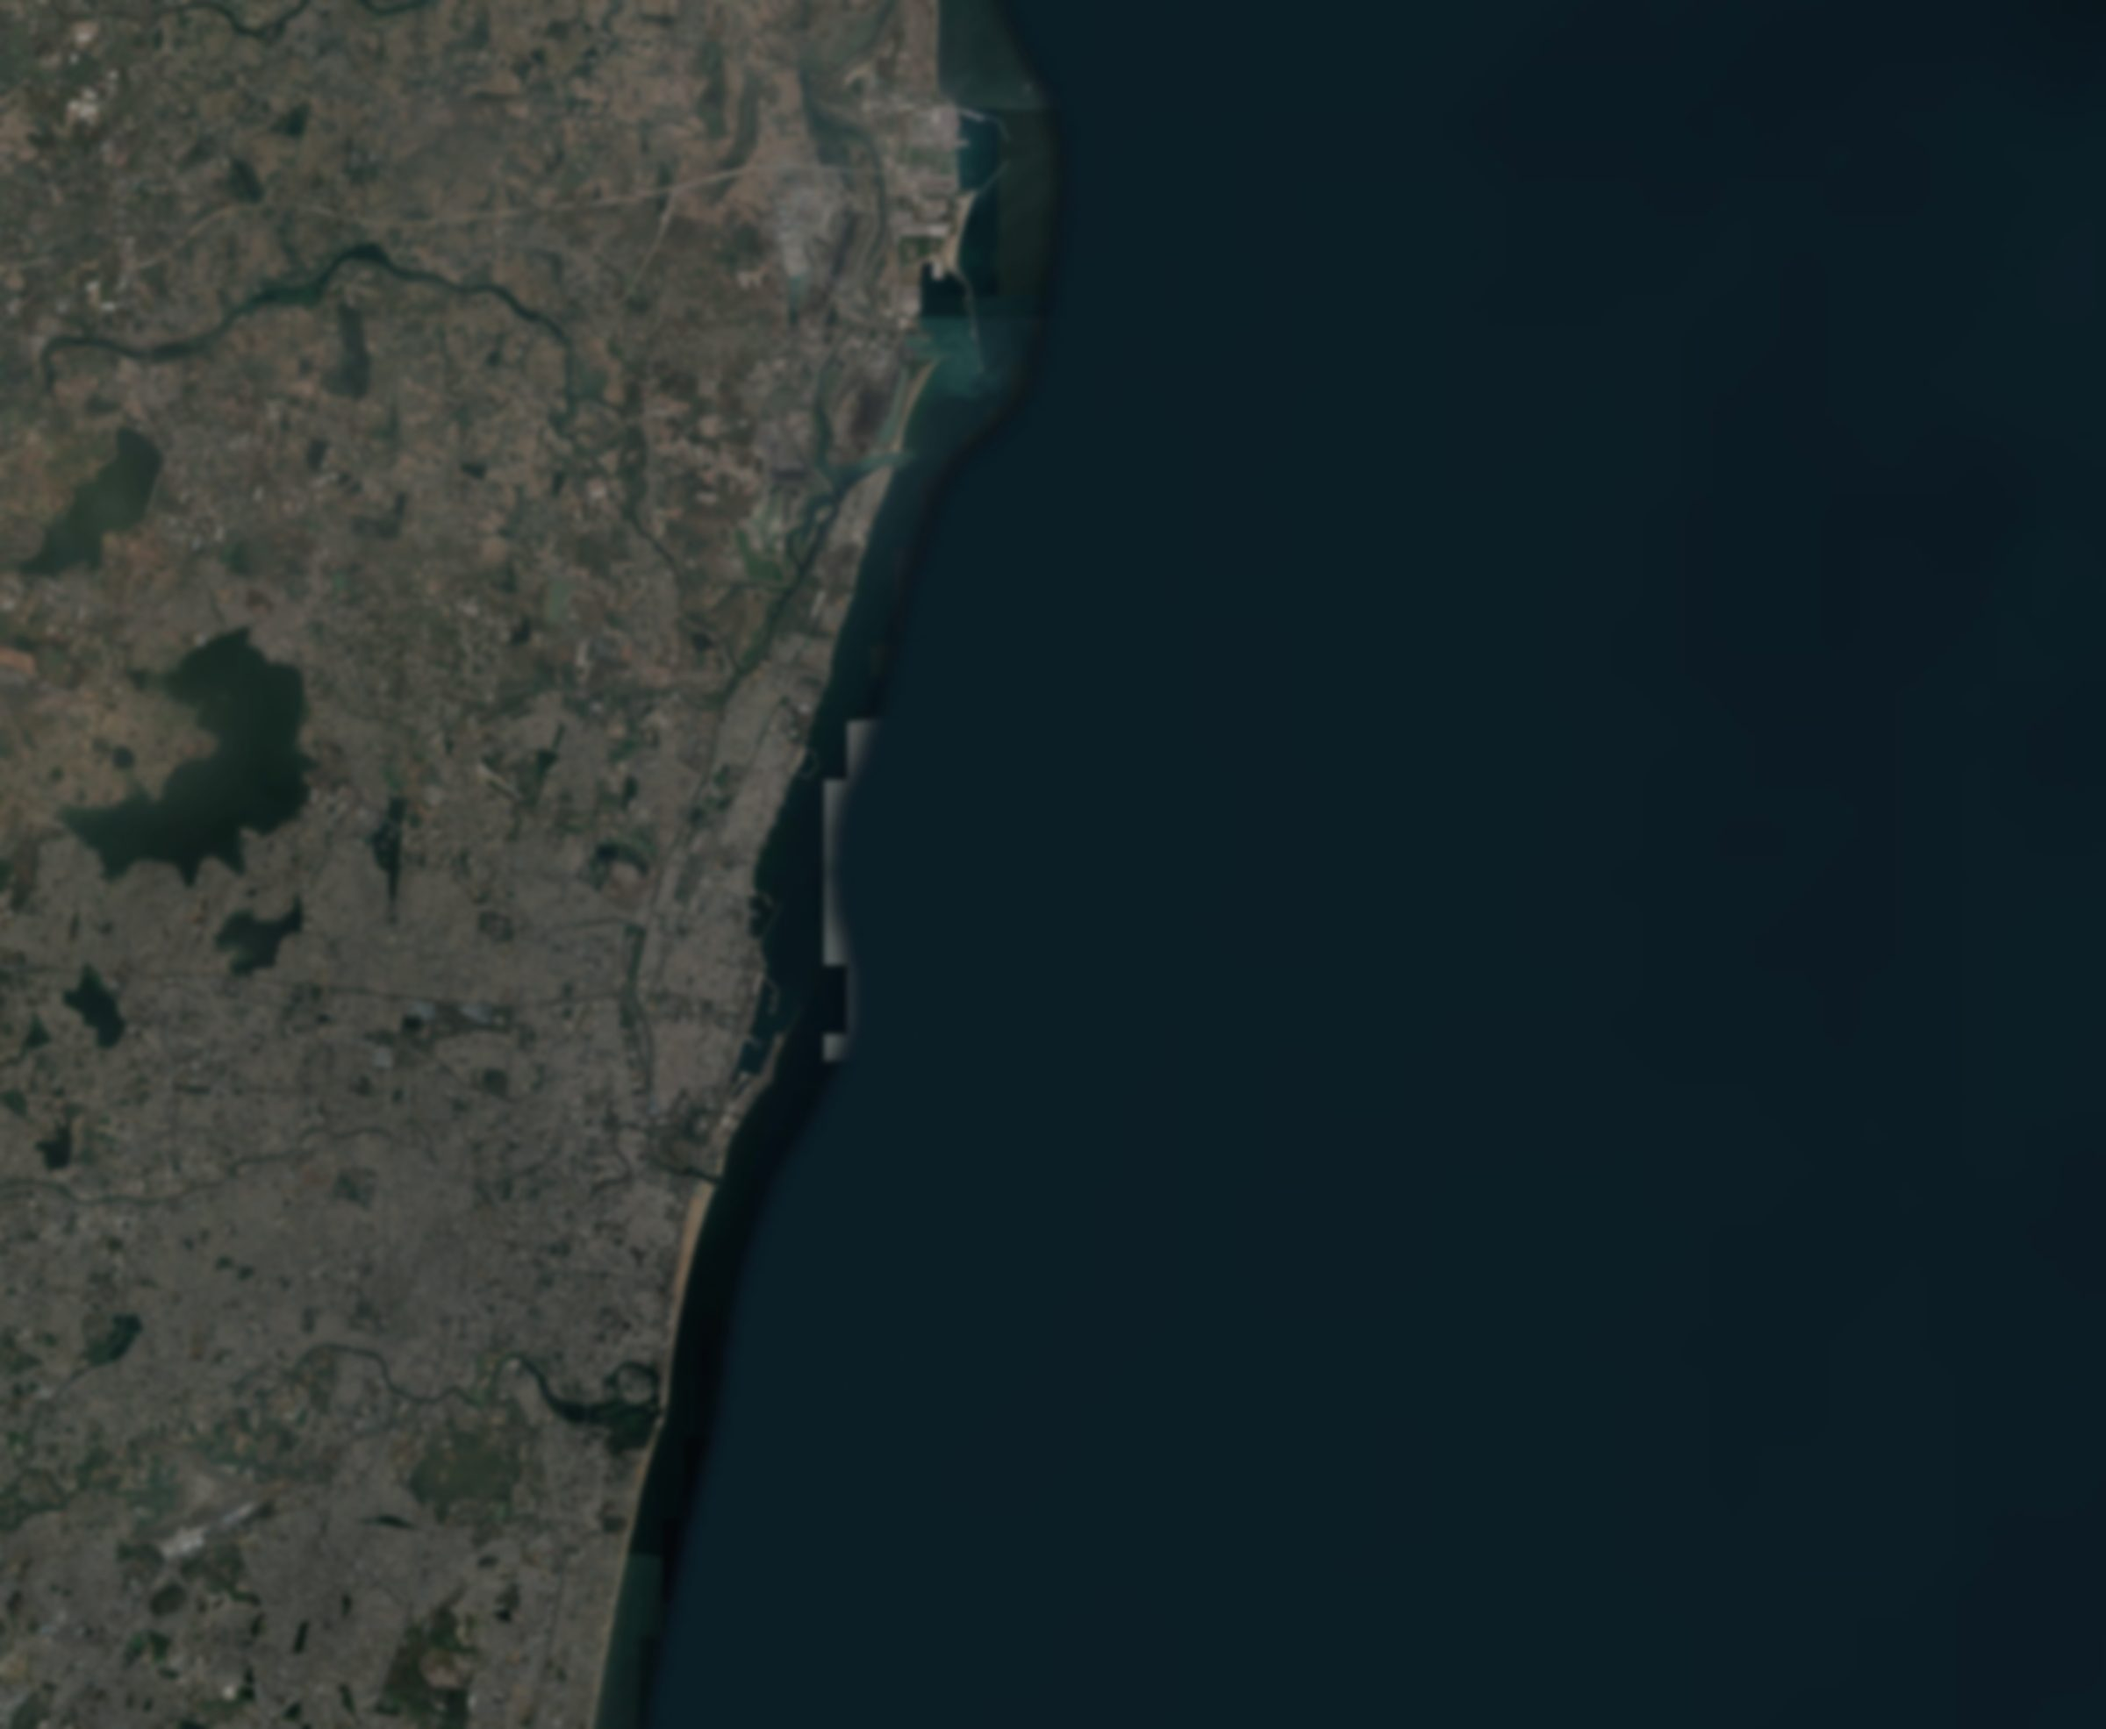
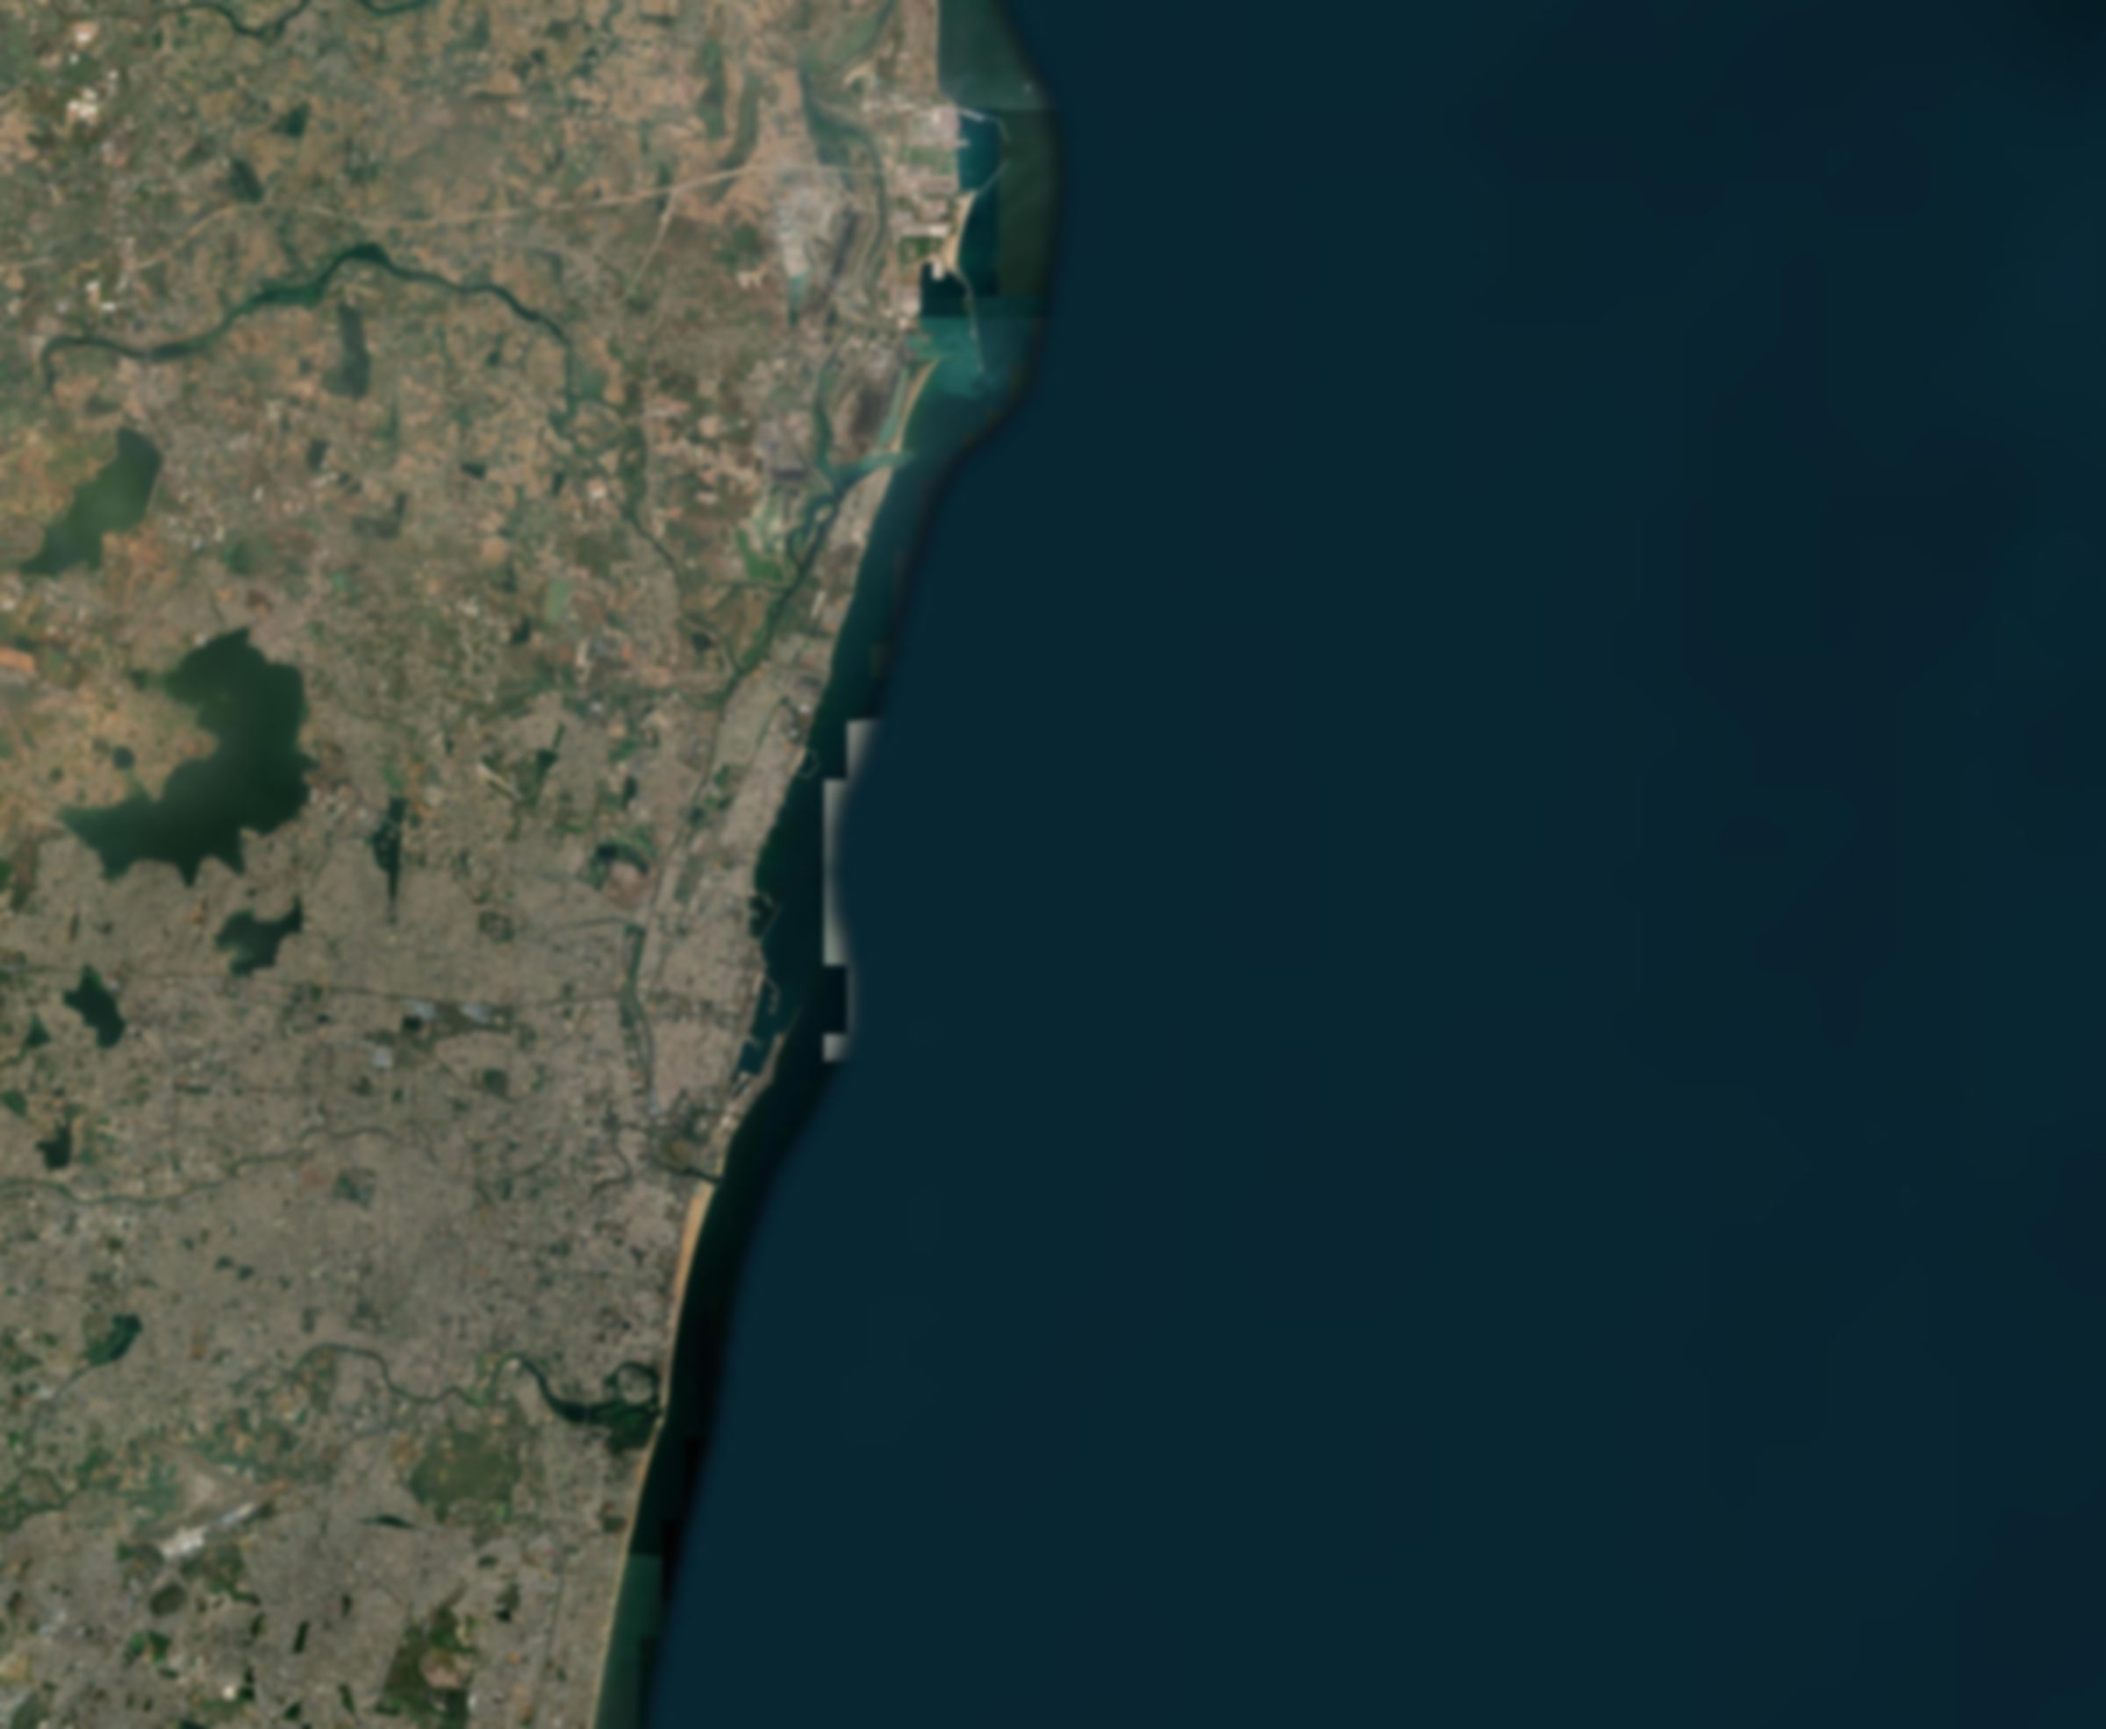
Make the login backdrop a genuine drop-in
Move the darken and desaturate out of the baked JPEG and into a CSS filter on the
backdrop image, so replacing web/public/media/login.jpg with any photo gets the
same grade and keeps the sign-in panel readable. The bundled Chennai still is now
blurred only, which is the part specific to it: it hides Esri's mosaic joins.

Also moves the imagery credit to the page corner, where it was previously landing
at the inner edge of the left grid column.

diff --git a/web/src/pages/Login.tsx b/web/src/pages/Login.tsx
@@ -42,11 +42,13 @@ export default function Login() {
           boundary leaves a hard vertical seam down the middle of the sea. */}
       <div className="pointer-events-none absolute inset-0 bg-[linear-gradient(to_top,rgba(8,14,20,0.8)_0%,rgba(8,14,20,0.3)_34%,transparent_58%)]" />
 
+      {/* Credit for the backdrop imagery, at the page corner. Esri's licence requires it be
+          shown wherever their tiles are; replace the text if you swap the image. */}
+      <div className="pointer-events-none absolute bottom-2 right-3 z-10 font-mono text-[10px] text-white/35">Chennai–Ennore · imagery © Esri, Maxar, Earthstar Geographics</div>
+
       <div className="relative grid min-h-dvh md:grid-cols-[1.15fr_1fr]">
       <aside className="relative hidden md:block">
         <div className="absolute left-6 top-6 font-mono text-[11px] uppercase tracking-wider text-white/70 [text-shadow:0_1px_3px_rgba(0,0,0,0.6)]">Sentinel-1A · IW GRD · VV · 2026-09-06 01:12Z</div>
-        {/* Esri's licence requires the credit wherever their imagery is shown, including here. */}
-        <div className="absolute bottom-2 right-3 font-mono text-[10px] text-white/40">Chennai–Ennore · imagery © Esri, Maxar, Earthstar Geographics</div>
         <div className="absolute bottom-6 left-6 max-w-[40ch]">
           <div className="font-display text-3xl font-semibold leading-tight text-white [text-shadow:0_2px_12px_rgba(0,0,0,0.55)]">Oil reads dark on radar. So do calm water and algae.</div>
           <p className="mt-2 text-sm text-white/80 [text-shadow:0_1px_6px_rgba(0,0,0,0.6)]">The model's job is telling them apart. The officer's job is deciding who to board. This console is where the two meet.</p>

diff --git a/web/src/components/SeaBackdrop.tsx b/web/src/components/SeaBackdrop.tsx
@@ -166,9 +166,13 @@ export default function SeaBackdrop({ className }: { className?: string }) {
       {/* The Chennai–Ennore coast from the same Esri imagery the console's maps use, stitched and
           graded offline into `public/media/login.jpg`. Bundled, so it needs no network. It layers
           over the canvas; if the file were ever missing, the drawn sea is still underneath. */}
+      {/* The grade lives here, not baked into the file, so that replacing the image is genuinely a
+          drop-in: whatever you put at this path is darkened and desaturated to the same degree and
+          the sign-in panel stays readable over it. */}
       <img
         src="/media/login.jpg" alt=""
         className={`absolute inset-0 size-full object-cover transition-opacity duration-700 ${imgReady ? 'opacity-100' : 'opacity-0'}`}
+        style={{ filter: 'saturate(0.8) brightness(0.58) contrast(0.95)' }}
         onLoad={() => setImgReady(true)}
       />
       {/* Optional: drop a clip at web/public/media/login.mp4 and it takes over. If the file is not

diff --git a/docs/DECISIONS.md b/docs/DECISIONS.md
@@ -78,3 +78,5 @@ Append new entries at the bottom. Never rewrite history; supersede with a new en
 - **The sign-in backdrop is water drawn in code, with a video slot left open.** `web/src/components/SeaBackdrop.tsx` paints a hazy harbour sea on a canvas: a horizon with haze and a suggested far shore, and crests placed by deterministic hash noise on quadratically spaced rows, so the surface has perspective and drifts under a slow swell. It also renders a `<video>` that fades in over the top if `web/public/media/login.{webm,mp4}` exists, and stays invisible when the request 404s. Drawn water is the default rather than a stopgap: a bundled clip is megabytes in a repo with no git-lfs, and the build plan requires the demo to survive the venue WiFi dying, so the page has to look right with no asset at all. Motion stops when the tab is hidden and never starts under `prefers-reduced-motion`. The sign-in form moved onto a translucent panel so every field keeps the contrast it had, and the page scrim spans the full width rather than the left grid column, which was leaving a hard vertical seam down the middle of the sea.
 
 - **The sign-in backdrop is the sector itself: Esri imagery of the Chennai–Ennore coast, bundled.** Supersedes the drawn-water entry above, at the user's request. `scripts/stitch_login_bg.py` pulls the same Esri World Imagery tiles the console's maps use for 80.12–80.62 E, 12.94–13.34 N at zoom 13, stitches them, and grades the result down to a 140 kB JPEG at `web/public/media/login.jpg`. Bundled rather than fetched, because the demo has to survive the venue WiFi dying. The blur is not only depth of field: Esri mosaics captures of different dates along this coast and the joins show as rectangular tonal steps, which softening buries. Esri's credit is rendered bottom-right, as their licence requires. `SeaBackdrop` now layers still over clip over canvas — the drawn sea stays underneath as the guarantee that the page can never come up blank, and a clip dropped at `public/media/login.{webm,mp4}` still takes over. Not the user's own screenshot: that was a capture of the app's map panel with the basemap toggle, scale bar, marker dots and Leaflet credit baked into the pixels.
+
+- **The sign-in backdrop grade lives in CSS, not baked into the file.** `SeaBackdrop` applies `saturate(0.8) brightness(0.58) contrast(0.95)` to the backdrop `<img>`, so replacing `web/public/media/login.jpg` with any other photo is a genuine drop-in: it gets the same treatment and the sign-in panel stays readable without anyone re-grading an asset. The bundled Chennai still is now blurred only, which is the part specific to it (it hides Esri's mosaic joins). Note for whoever swaps it: press photographs of real spills are copyrighted, and this is shown to judges; use own captures, self-stitched satellite imagery, NASA/ESA/Copernicus, or explicit CC0.

diff --git a/web/public/media/README.md b/web/public/media/README.md
@@ -6,7 +6,17 @@
     login.webm / .mp4   optional looping clip; fades in over the still if you add one.
     (canvas)            a sea drawn in code, underneath both, so the page is never blank.
 
-## login.jpg
+## Swapping the image
+
+Save any photo over `login.jpg` and it appears on next reload. Nothing else to change: the darken
+and desaturate live in CSS (`SeaBackdrop.tsx`), not baked into the file, so a replacement is graded
+the same way and the sign-in panel stays readable over it. Landscape, ideally 2000 px or wider.
+
+**Check you are allowed to use it.** Press photographs of real spills are almost always
+copyrighted, and this is going in front of judges. Safe sources: your own captures, satellite
+imagery you stitch yourself (see below), NASA/ESA/Copernicus, or anything explicitly CC0.
+
+## login.jpg (current)
 
 Esri World Imagery — the same tile service the console's maps use — for 80.12–80.62 E, 12.94–13.34 N
 at zoom 13, stitched into one image, then softened and graded down so the sign-in panel reads over
